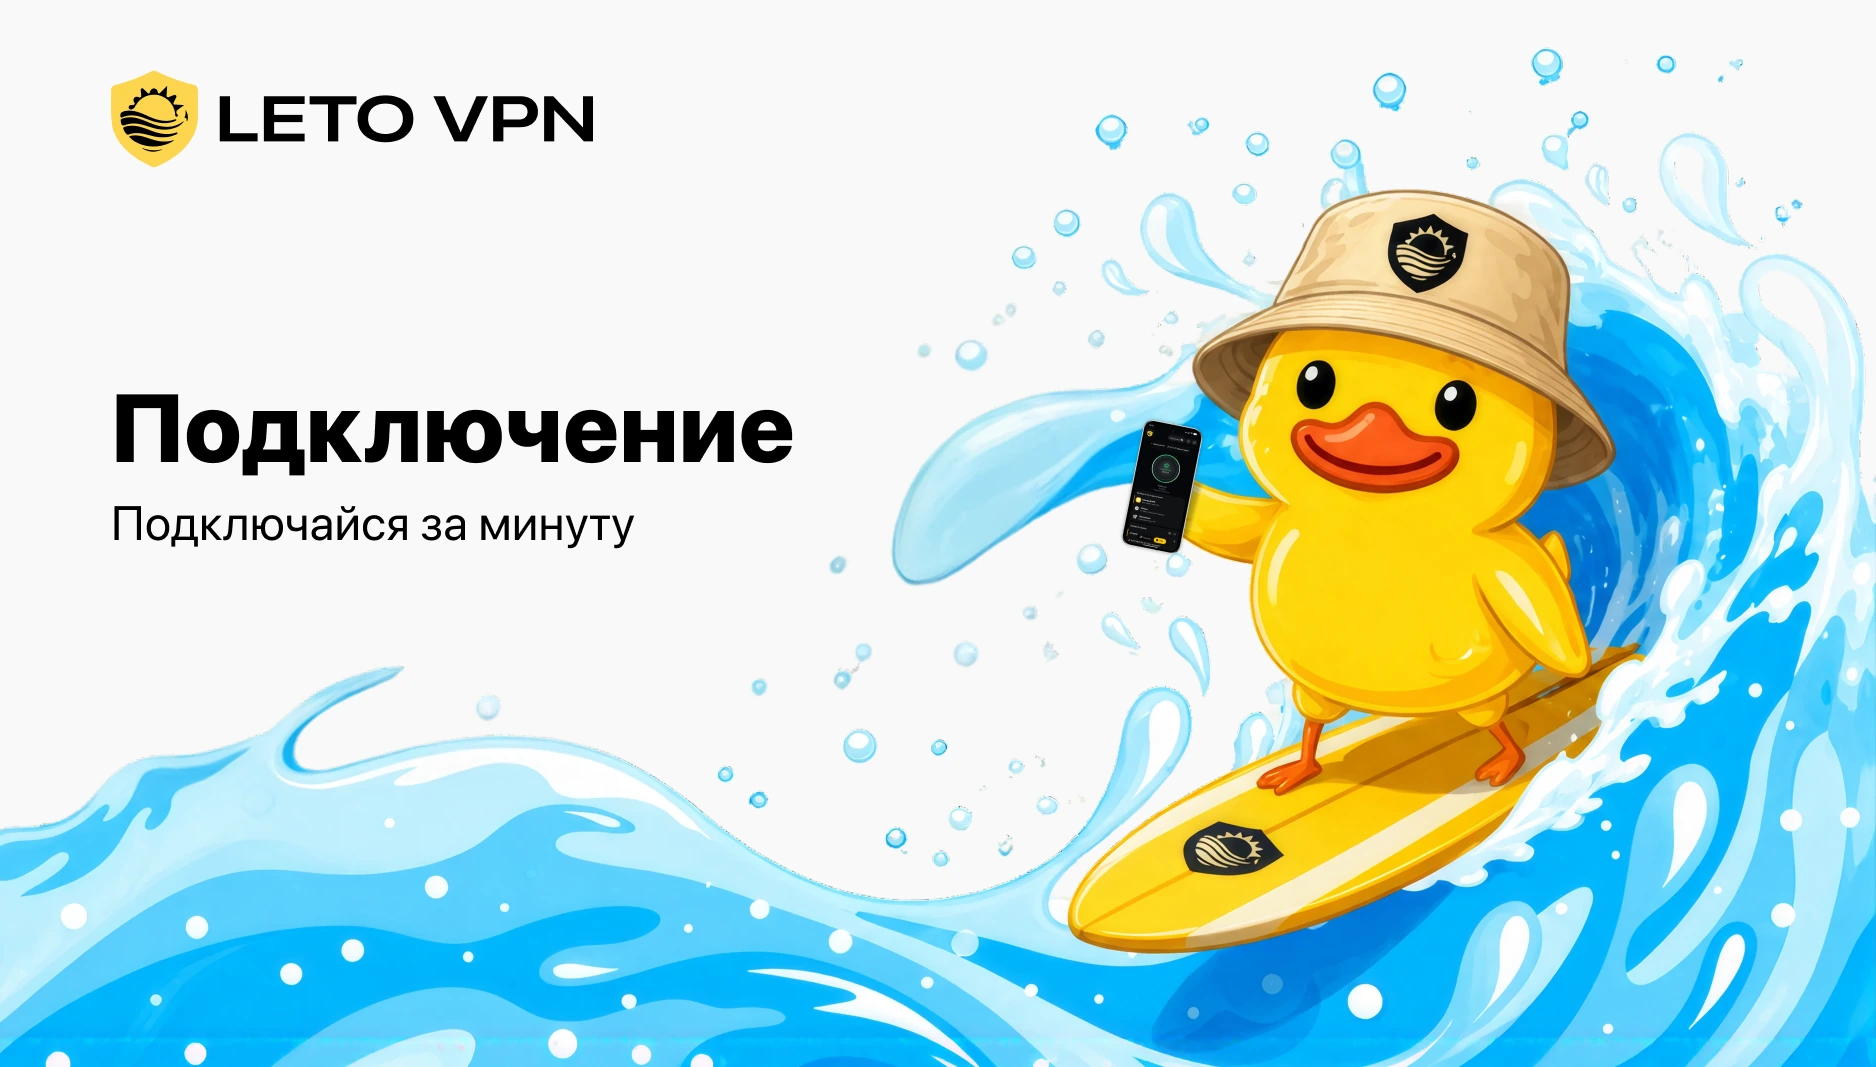
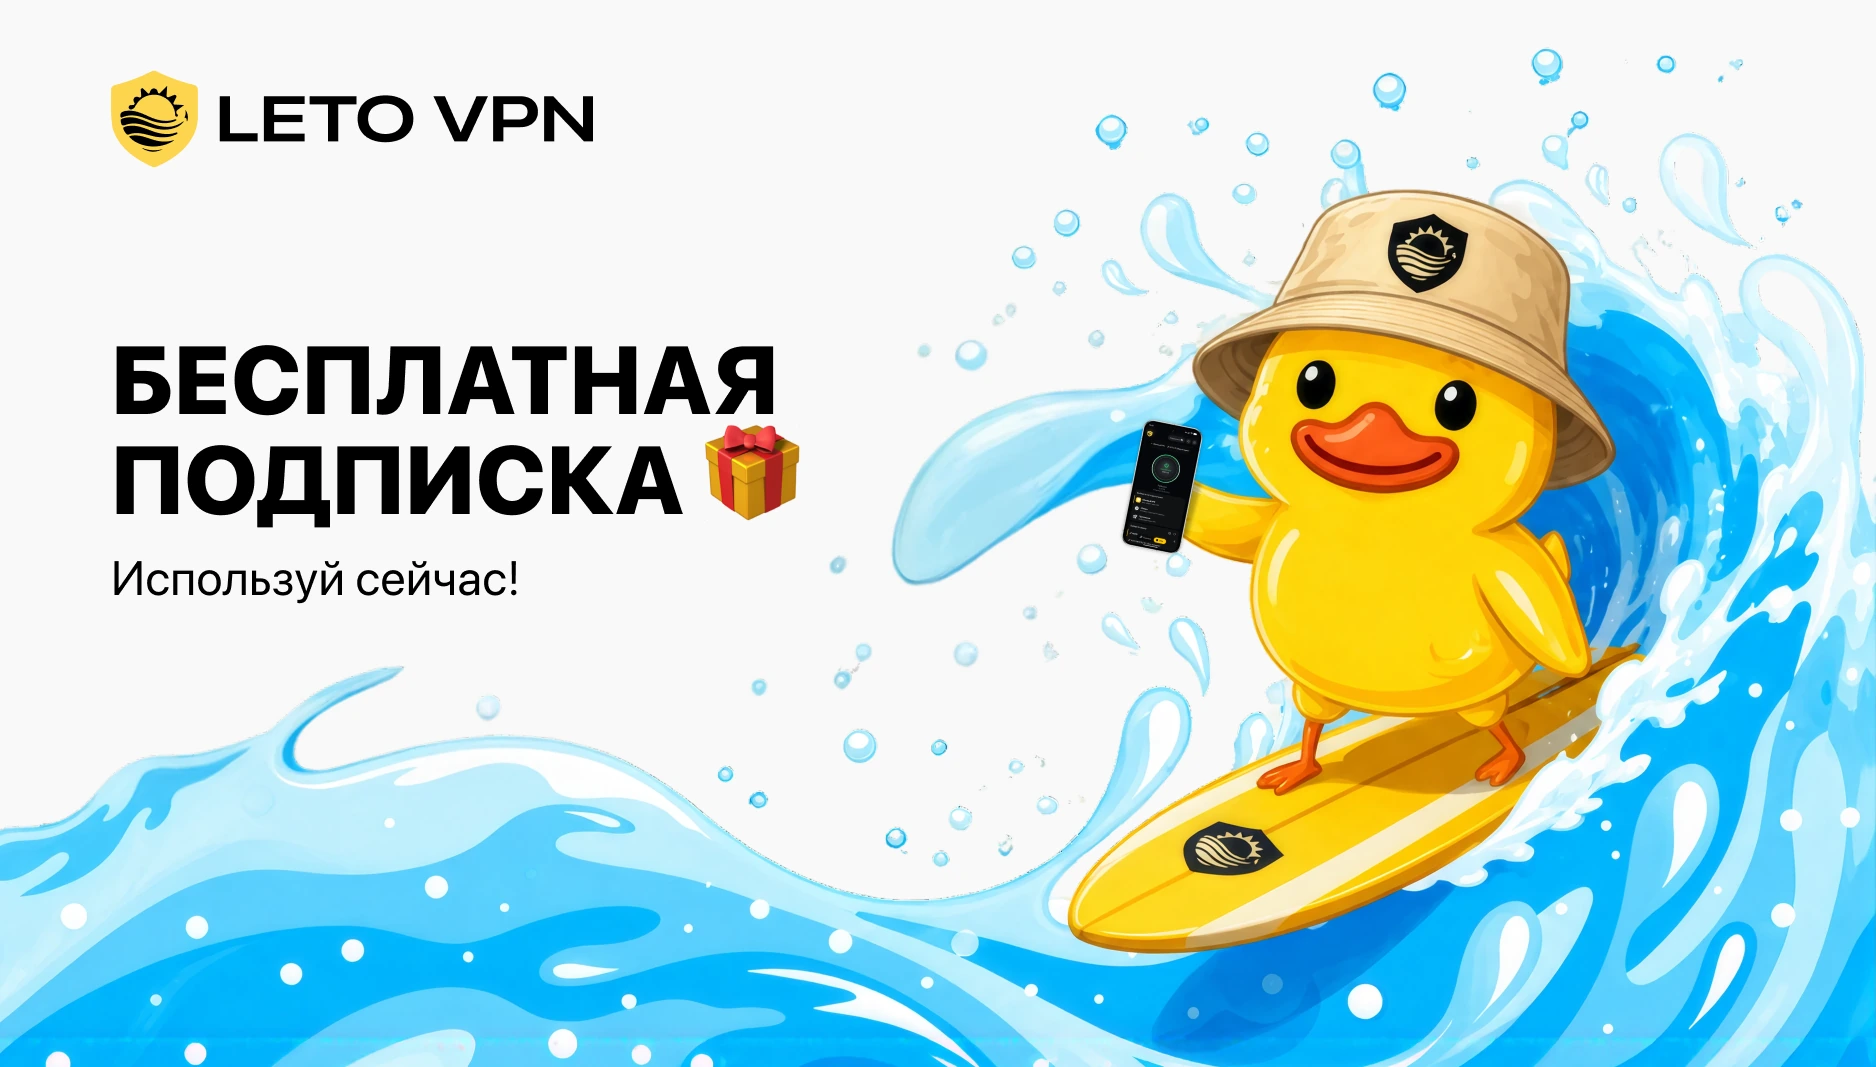
Refresh free subscription welcome screen

Changed region(s): [[0.0618, 0.3093, 0.4328, 0.5567]]

diff --git a/tests/handlers/test_onboarding_welcome.py b/tests/handlers/test_onboarding_welcome.py
@@ -30,6 +30,7 @@ def test_onboarding_welcome_keyboard_opens_connect_platform_submenus():
 async def test_onboarding_welcome_text_has_only_copyable_subscription_link(monkeypatch):
     text = await start._build_onboarding_welcome_text(AsyncMock(), _user())
 
+    assert text.startswith("🎁 Привет, тебе")
     assert "Привет, тебе доступна бесплатная подписка на 3 дня" in text
     assert "Ключ доступа для Happ, Incy:" in text
     assert f"<pre><code>{SUBSCRIPTION_LINK}</code></pre>" in text
@@ -95,7 +96,7 @@ async def test_onboarding_welcome_sends_connection_image_for_new_registration():
     )
 
     assert success is True
-    assert message.answer_photo.await_args.kwargs["caption"].startswith("Привет, тебе")
+    assert message.answer_photo.await_args.kwargs["caption"].startswith("🎁 Привет, тебе")
     assert message.answer_photo.await_args.args[0].path == "images/connection.webp"
 
 

diff --git a/app/handlers/start.py b/app/handlers/start.py
@@ -379,7 +379,8 @@ async def _build_onboarding_welcome_text(
         return None
 
     text = (
-        texts.t(
+        "🎁 "
+        + texts.t(
             "ONBOARDING_WELCOME_TEXT",
             "Привет, тебе доступна бесплатная подписка на 3 дня! Установи приложение и пользуйся.",
         )
